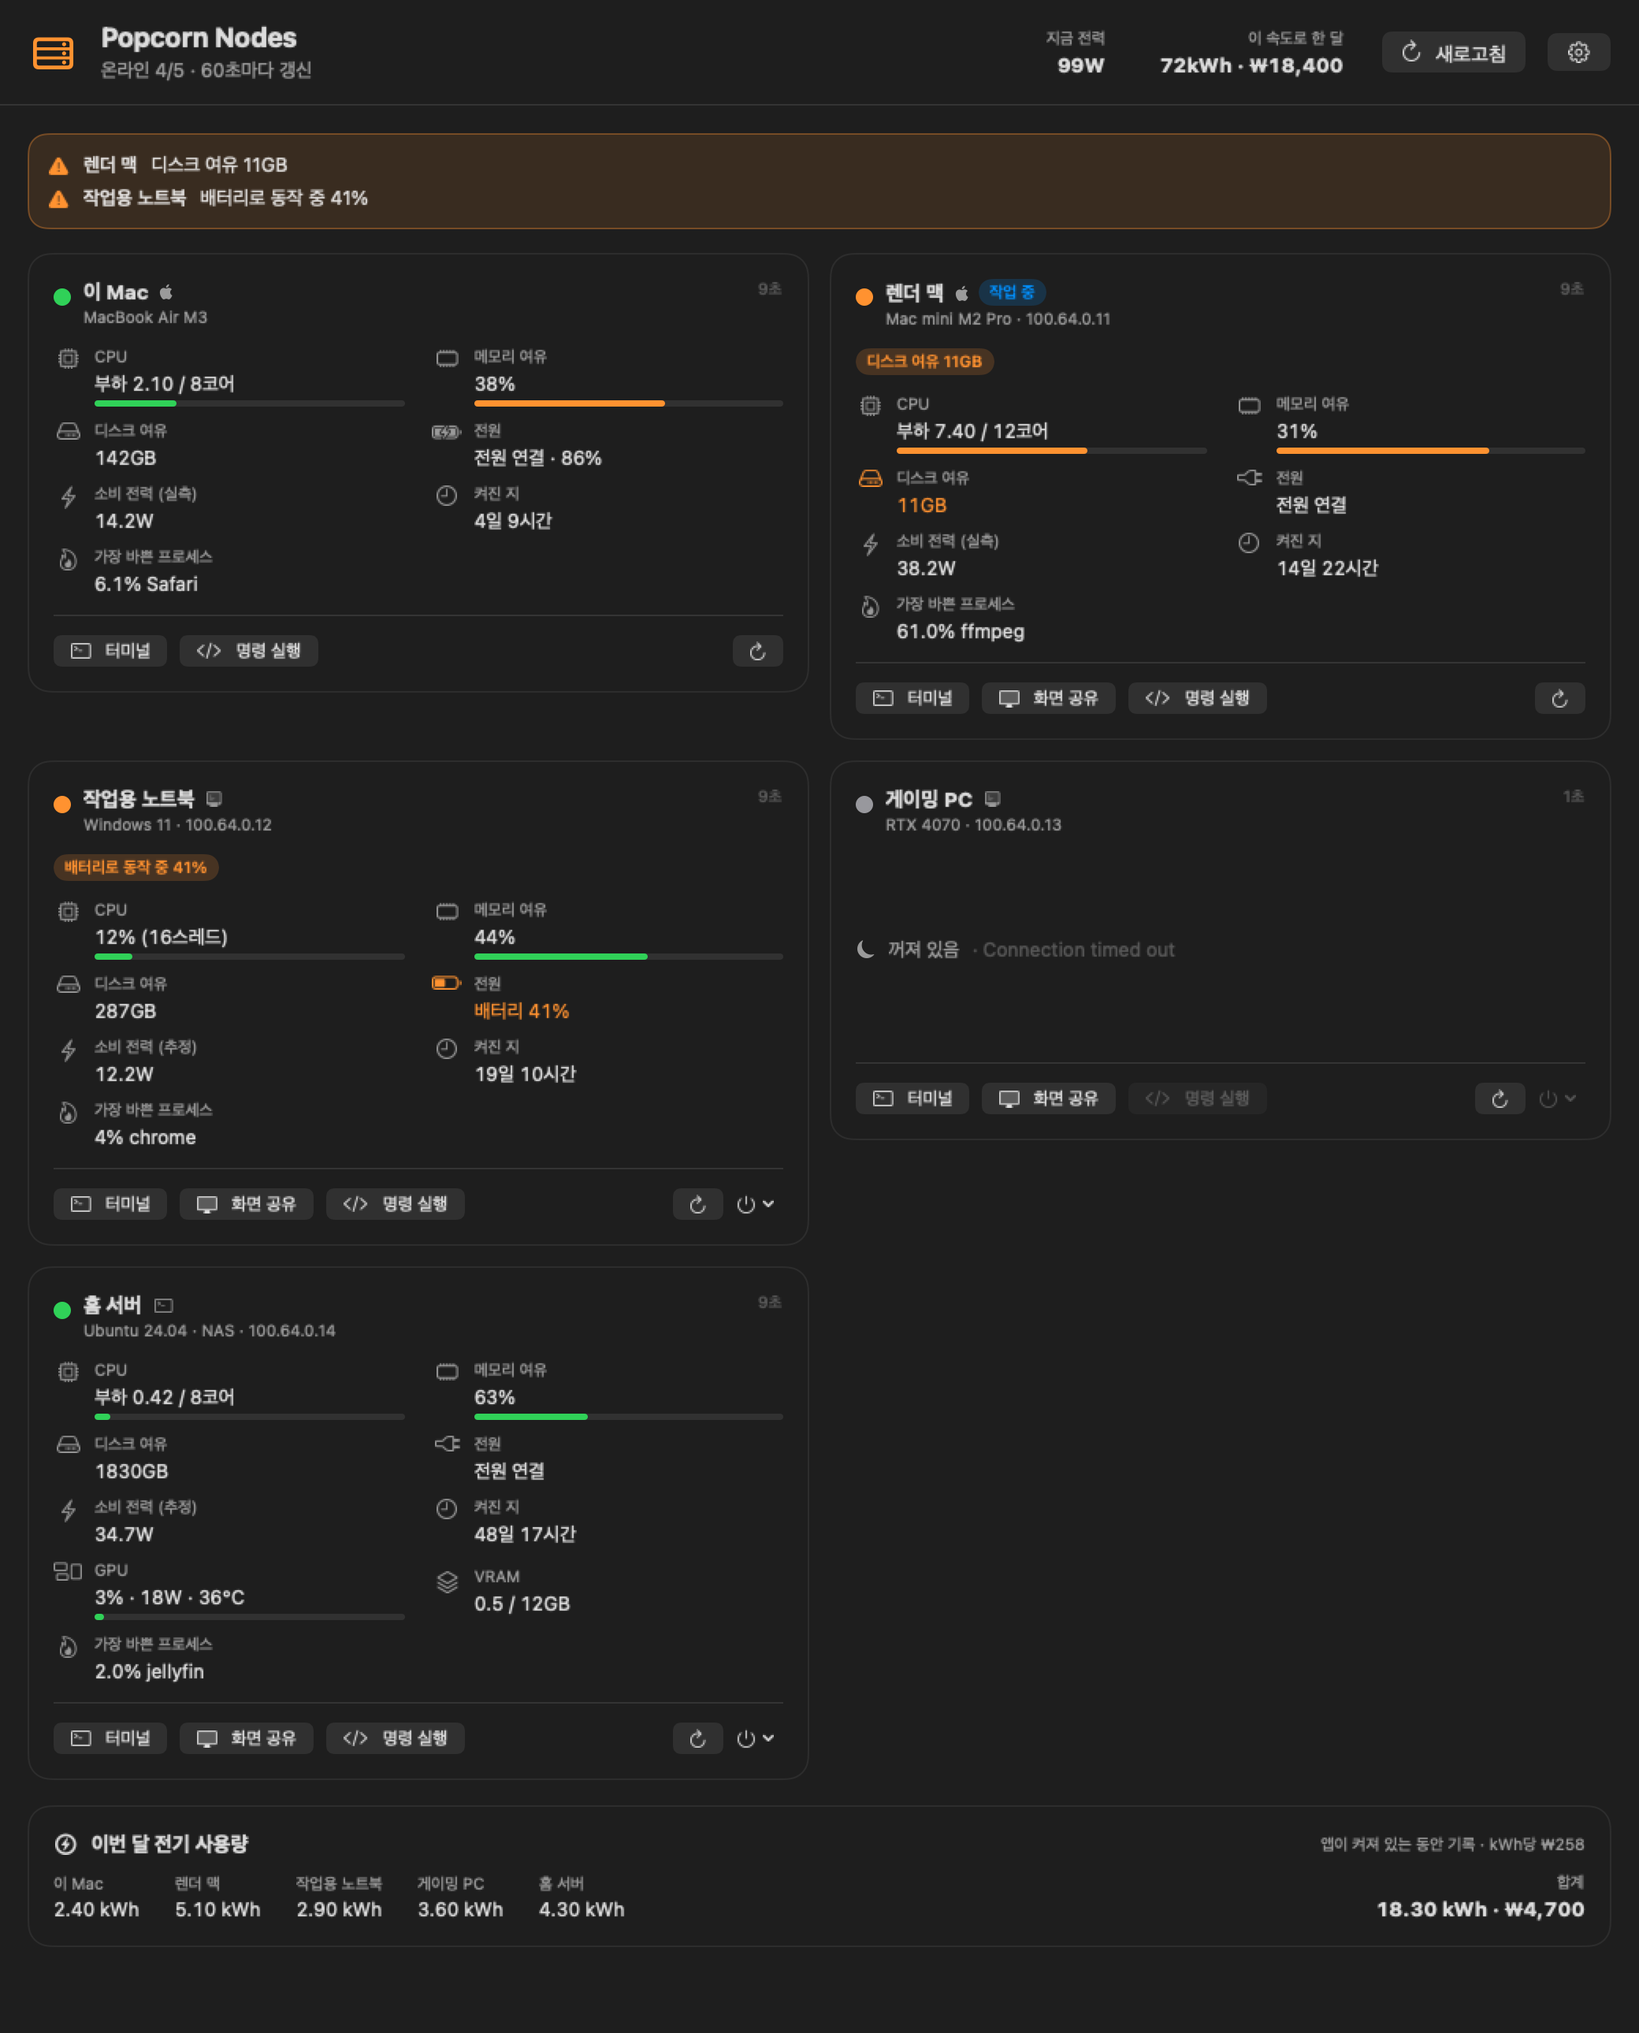
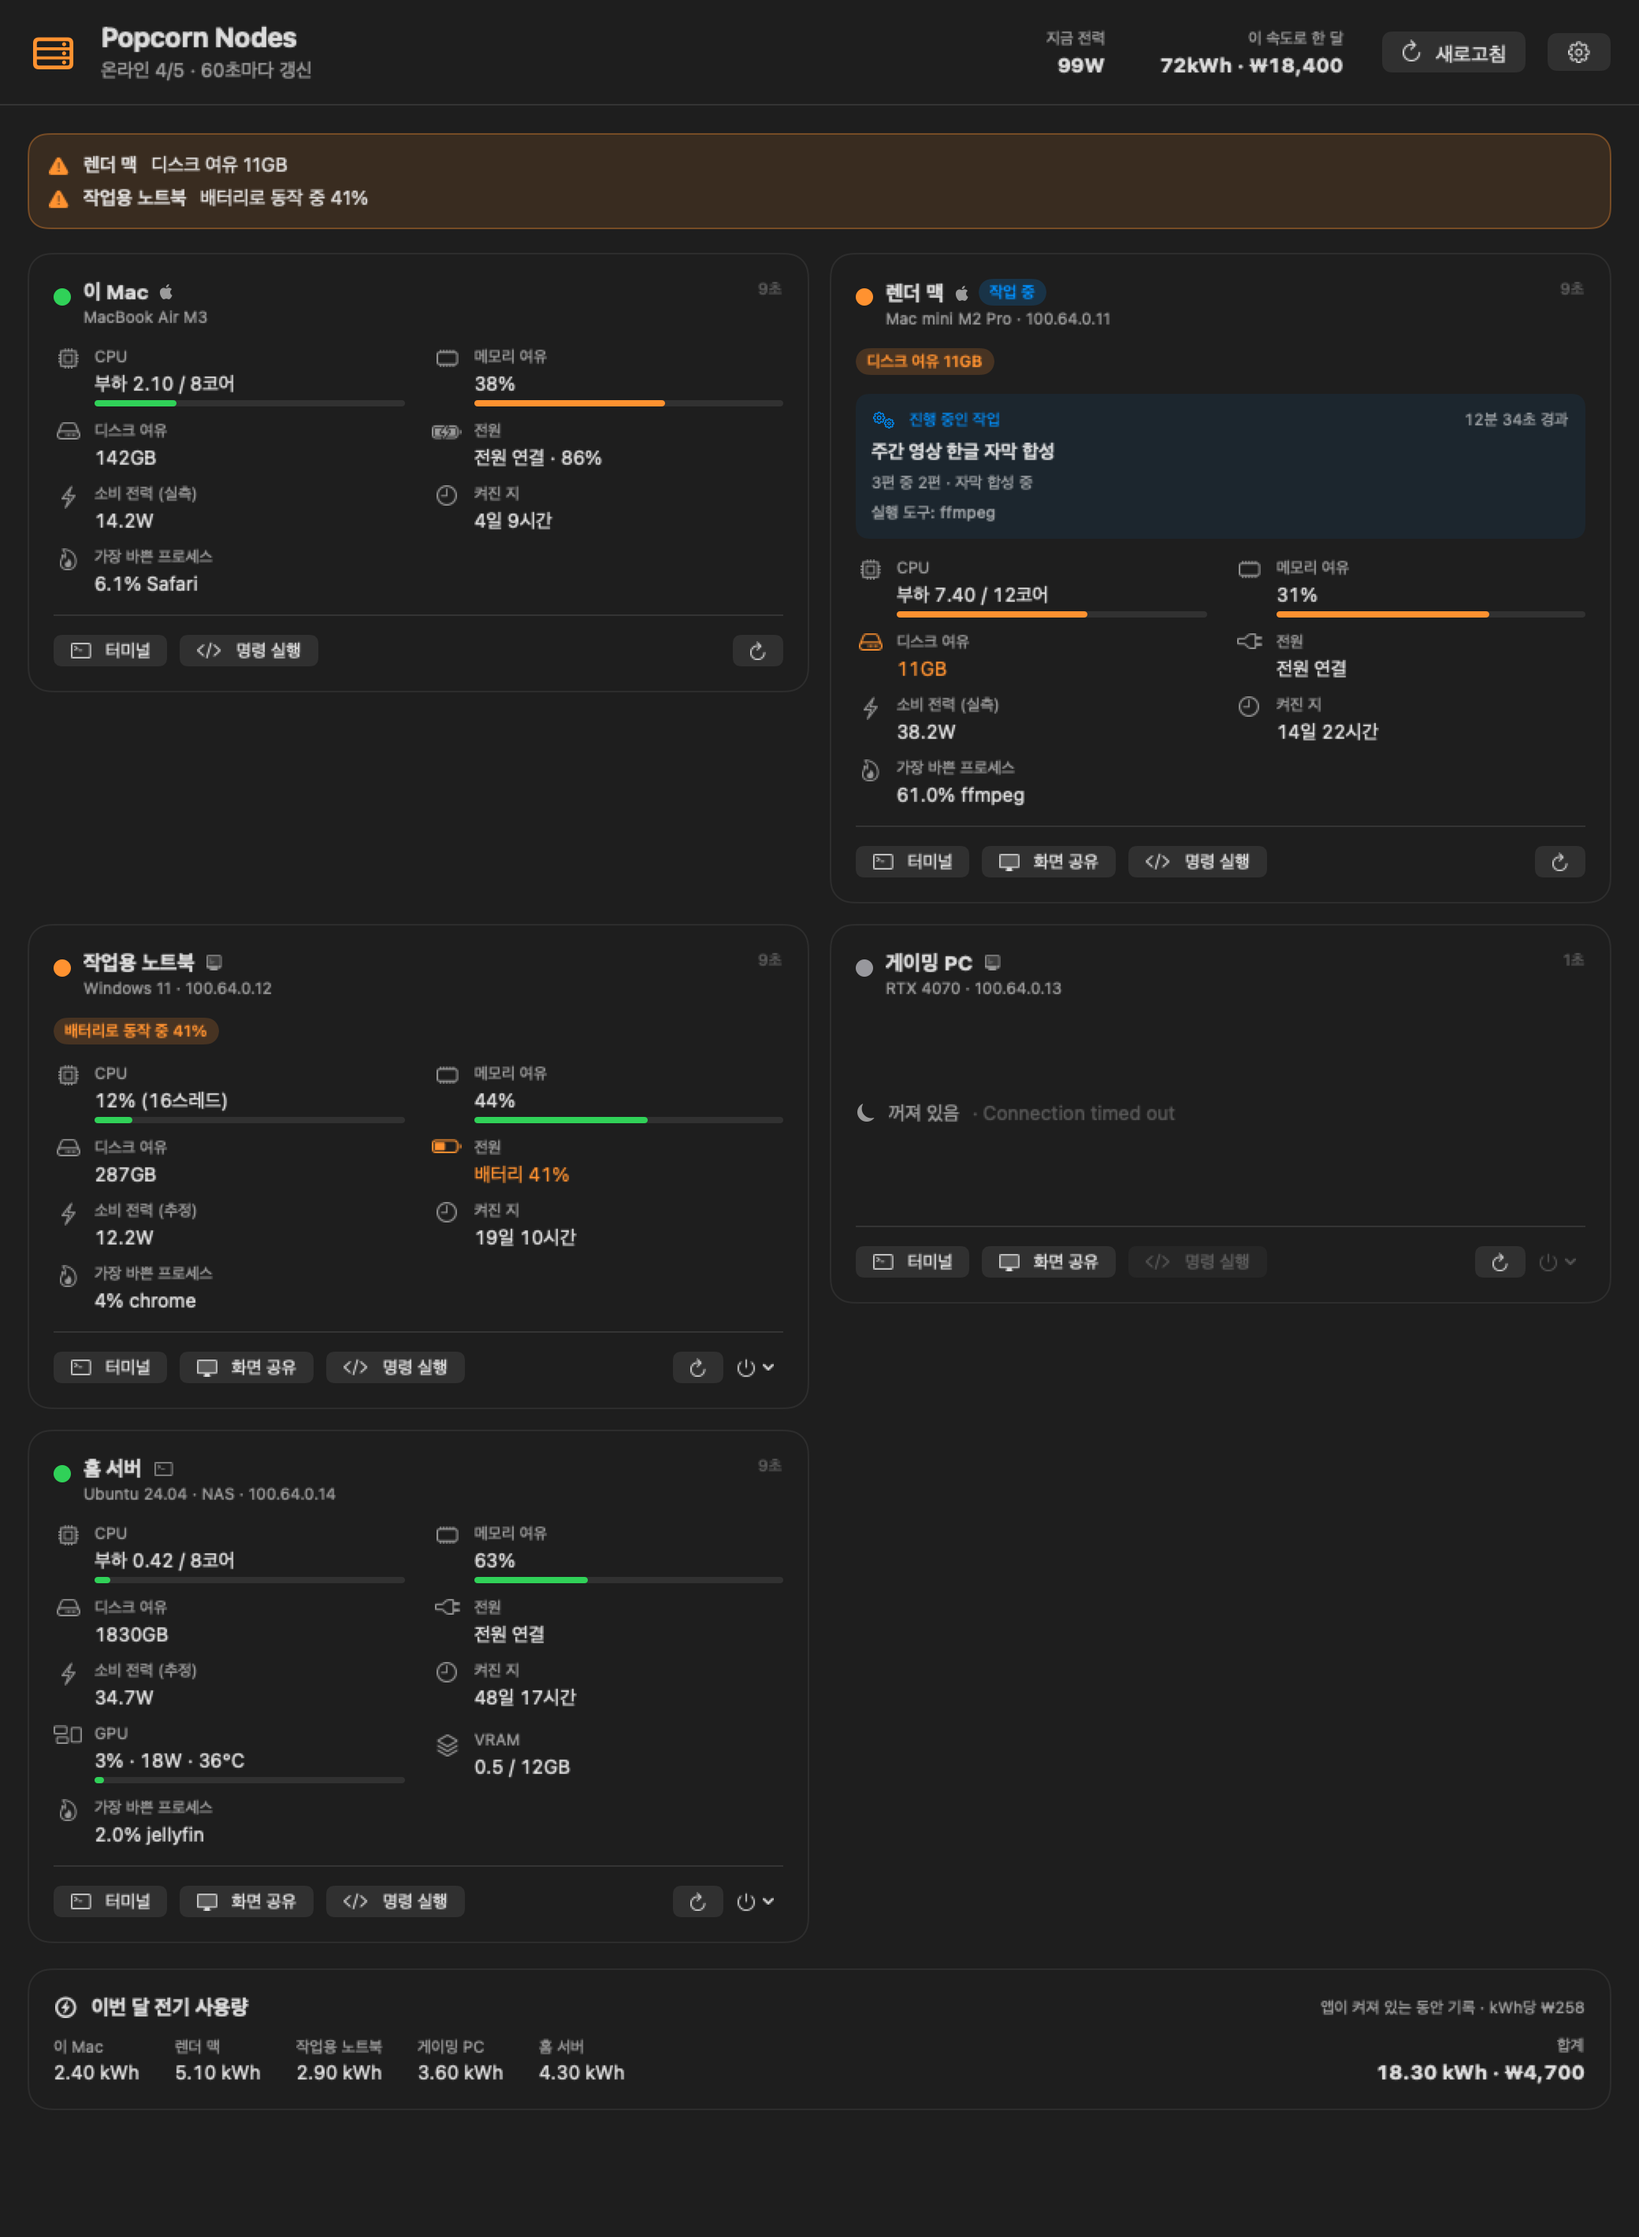
Docs: zip release install steps, setup guide screenshot, demo job card

diff --git a/README.ko.md b/README.ko.md
@@ -25,10 +25,15 @@
 
 <img src="docs/settings-ko.png" width="560" alt="설정">
 
+<img src="docs/setup-guide-ko.png" width="560" alt="연결 방법 안내">
+
 ## 설치
 
-1. [Releases](https://github.com/team-datapopcorn/popcorn-nodes/releases)에서 최신 `.dmg`를 받아 응용 프로그램 폴더로 끌어 넣습니다.
-2. 앱을 열고 **설정 → 장비 → +** 에서 이름, 주소, 사용자, OS를 넣고 **연결 테스트**를 누릅니다.
+1. [Releases](https://github.com/team-datapopcorn/popcorn-nodes/releases/latest)에서 `PopcornNodes-<버전>.zip`을 받아 압축을 풀고 **Popcorn Nodes**를 응용 프로그램 폴더로 옮깁니다.
+2. 지금 릴리스는 애플 공증 전이라 처음 열 때 "Apple에서 확인할 수 없습니다" 창이 뜹니다. **시스템 설정 → 개인정보 보호 및 보안** 맨 아래에서 **그래도 열기**를 누르세요. 터미널에서 `xattr -dr com.apple.quarantine "/Applications/Popcorn Nodes.app"`을 실행해도 됩니다. 처음 한 번만 하면 됩니다. 공증된 DMG와 Homebrew 설치는 다음 버전에서 제공합니다.
+3. 앱을 열고 **설정 → 장비 → +** 에서 이름, 주소, 사용자, OS를 넣고 **연결 테스트**를 누릅니다.
+
+직접 빌드하려면 아래 [직접 빌드](#직접-빌드)를 보세요. Xcode 커맨드라인 도구만 있으면 1분이면 됩니다.
 
 macOS 14 Sonoma 이상 (Apple 실리콘, 인텔 모두 지원).
 

diff --git a/README.md b/README.md
@@ -25,10 +25,15 @@
 
 <img src="docs/settings.png" width="560" alt="Settings">
 
+<img src="docs/setup-guide.png" width="560" alt="Setup guide">
+
 ## Install
 
-1. Download the latest `.dmg` from [Releases](https://github.com/team-datapopcorn/popcorn-nodes/releases) and drag **Popcorn Nodes** to Applications.
-2. Open it, then **Settings → Machines → +** to add a machine (name, host, user, OS) and press **Test connection**.
+1. Download `PopcornNodes-<version>.zip` from [Releases](https://github.com/team-datapopcorn/popcorn-nodes/releases/latest), unzip it and move **Popcorn Nodes** to Applications.
+2. The current release is ad-hoc signed, not yet notarized by Apple. The first launch shows "Apple could not verify…". Open **System Settings → Privacy & Security**, scroll down and click **Open Anyway** (or run `xattr -dr com.apple.quarantine "/Applications/Popcorn Nodes.app"`). You only do this once. A notarized DMG and a Homebrew cask will follow.
+3. Open it, then **Settings → Machines → +** to add a machine (name, host, user, OS) and press **Test connection**.
+
+Prefer to build it yourself? See [Build from source](#build-from-source). It takes about a minute with the Xcode command line tools.
 
 Requires macOS 14 Sonoma or later (Apple silicon and Intel).
 
